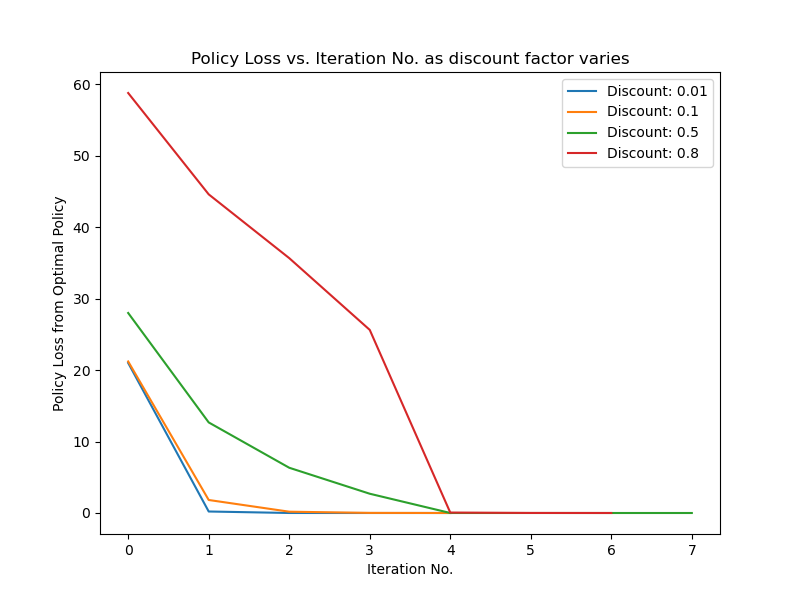
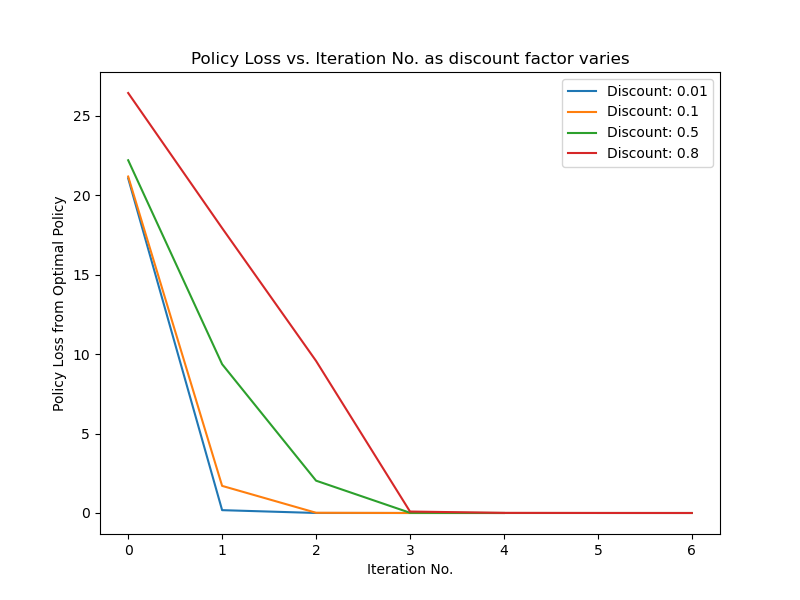
handled goal state

diff --git a/main.py b/main.py
@@ -52,7 +52,7 @@ class TaxiDomain:
         
         passenger_in_taxi = False
         self.state = (taxi_loc, passenger_loc, passenger_in_taxi)
-        self.goal_state = (self.dest_loc, self.dest_loc, True)
+        self.goal_state = (self.dest_loc, self.dest_loc, False)
 
         self.all_states = set()
         self.state_to_index = {}
@@ -85,6 +85,8 @@ class TaxiDomain:
         '''
         probs = {}
         taxi_loc, passenger_loc, passenger_in_taxi = s
+        if s == self.goal_state: # no transitions take place from goal state
+            return probs
 
         if a in TaxiDomain.nav_actions:
             # initialize probablility of 0.05 in all directions
@@ -201,6 +203,8 @@ class TaxiDomain:
                     (note that reward does not depend on s', i.e., R(s, a, s') = R(s, a) for all s')
         '''
         taxi_loc, passenger_loc, passenger_in_taxi = s
+        if s == self.goal_state: # no rewards from goal state as no transitions take place from goal state
+            return 0
 
         if a in TaxiDomain.nav_actions:
             return -1
@@ -221,6 +225,8 @@ class TaxiDomain:
         '''
         next_state_probs = self.T(s, a)
         reward = self.R(s, a)
+        if s == self.goal_state: # no action can be taken on goal state
+            return (self.goal_state, 0)
 
         # sample a next state s' from the probability distribution
         next_state = random.choices(list(next_state_probs.keys()), weights=next_state_probs.values(), k=1)[0]
@@ -283,13 +289,15 @@ class TaxiDomain:
         '''
             RETURNS: Q-value of (state, action) under the value function values
         '''
+        if state == self.goal_state: # for any action on the goal state Q(s,a) is taken to be 0
+            return 0
         reward = self.R(state, action)
         T_probs = self.T(state, action)
         q_value = 0
         for next_state, prob in T_probs.items():
             q_value += prob * (reward + discount * values[next_state])
-        # if q_value > 40:
-            # print(state, action, reward, T_probs)
+        if q_value > 40:
+            print(state, action, reward, T_probs, q_value)
         return q_value
 
     def policy_unchanged(self, pi_dash, pi):
@@ -343,11 +351,12 @@ class TaxiDomain:
         for state in self.all_states:
             i = self.state_to_index[state]
             a[i, i] = 1
-            T_probs = self.T(state, policy[state])
-            for next_state in T_probs:
-                next_state_i = self.state_to_index[next_state]
-                a[i, next_state_i] = -1 * T_probs[next_state] * discount
-            b[i] = self.R(state, policy[state])
+            if state != self.goal_state:
+                T_probs = self.T(state, policy[state])
+                for next_state in T_probs:
+                    next_state_i = self.state_to_index[next_state]
+                    a[i, next_state_i] = -1 * T_probs[next_state] * discount
+                b[i] = self.R(state, policy[state])
         print("\tSolving linear equations to evaluate new policy...")
         x = np.linalg.solve(a, b)
         values = {}
